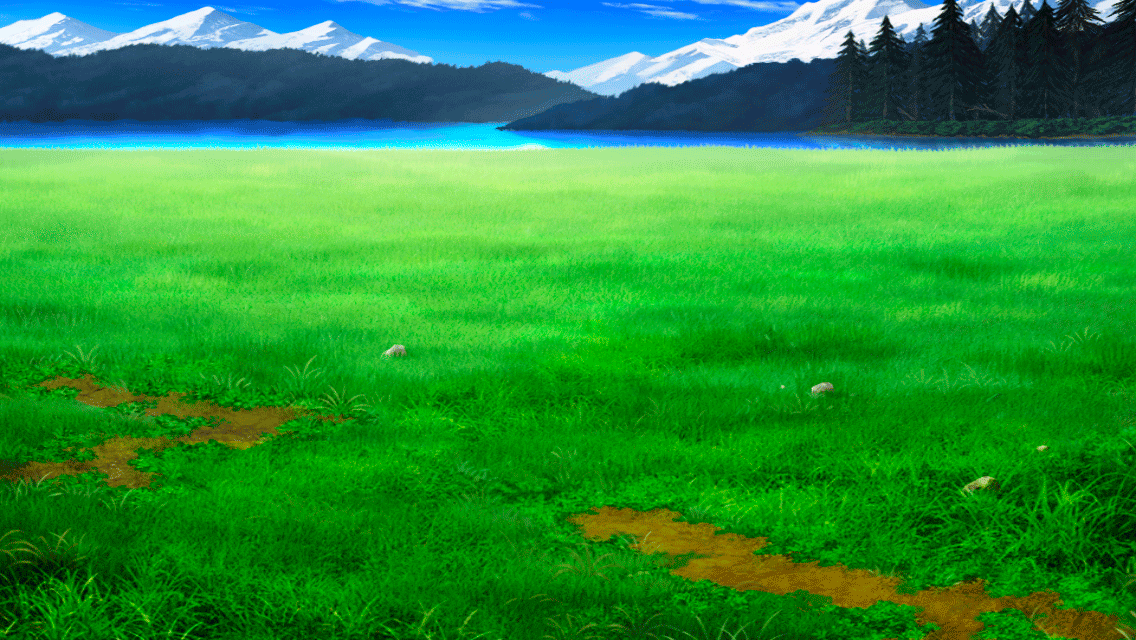
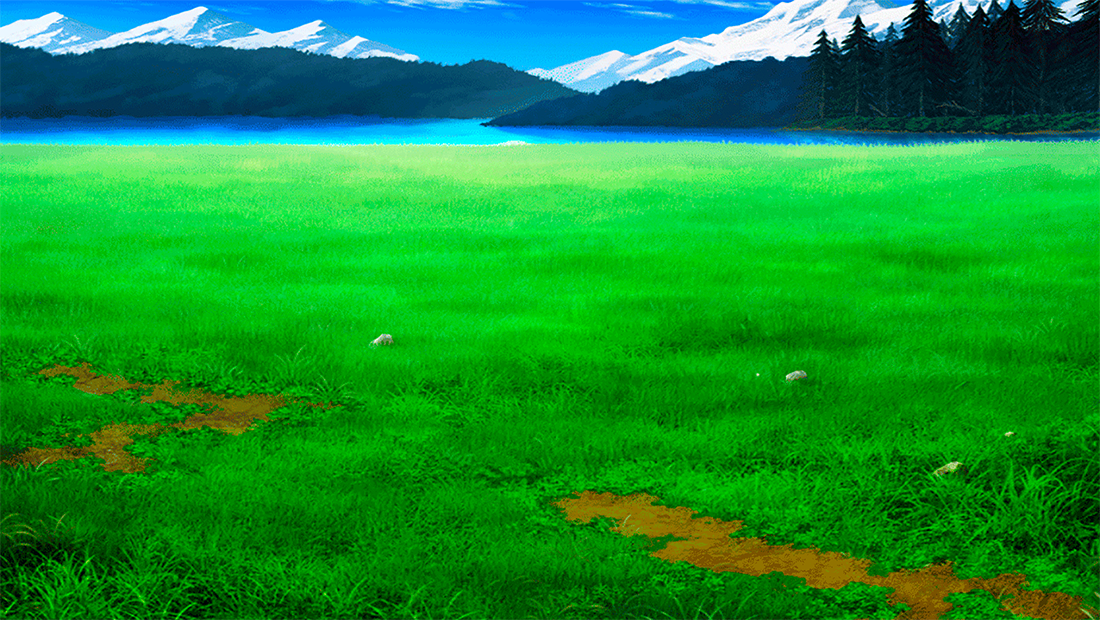
Ajustando a colisão
Agora, a hitbox de ambos herói e monstro estão corretas.

diff --git a/js/newGame.js b/js/newGame.js
@@ -8,13 +8,11 @@ var ctx = canvas.getContext('2d');
 
 // Usar futuramente para adaptar à janela do usuário
 
-var width = window.innerWidth;
+canvas.width = 1040;
 
-var height = window.innerHeight;
+canvas.height = 620;
 
-canvas.width = 1100;
-
-canvas.height = 640;
+// criar uma função (if the window height or width changes, the value of innerHeight or innerWidth will get updated, and it will adapt to the new size.)
 
 document.body.appendChild(canvas);
 
@@ -61,7 +59,7 @@ monsterImage.src = 'img/icegigas.png';
 
 var hero = {
 
-	speed: 280
+	speed: 300
 
 };
 
@@ -133,7 +131,7 @@ var update = function update(modifier) {
 	}
 
 	// Checa se os personagens se encostaram
-	if (hero.x <= monster.x + 32 && monster.x <= hero.x + 32 && hero.y <= monster.y + 32 && monster.y <= hero.y + 32) {
+	if (hero.x <= monster.x + 64 && monster.x <= hero.x + 32 && hero.y <= monster.y + 94 && monster.y <= hero.y + 48) {
 
 		++monstersCaught;
 		reset();

diff --git a/index.html b/index.html
@@ -29,6 +29,8 @@
 
 	<script src="js/newGame.js"></script>
 
+	<script src="https://code.jquery.com/jquery-3.1.1.min.js"></script>
+
 	</body>
 
 </html>
